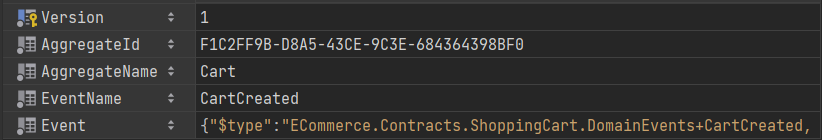
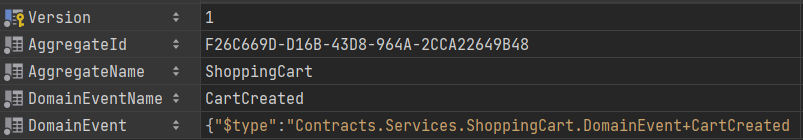
Upgrading event store in on README.md

diff --git a/README.md b/README.md
@@ -861,24 +861,25 @@ docker run --network=ecommerce --name k6 --rm -i grafana/k6 run - <test.js
 ### Store event
 
 ```sql
-CREATE TABLE [ShoppingCartStoreEvents] (
-    [Version] int NOT NULL IDENTITY,
-    [AggregateId] uniqueidentifier NOT NULL,
-    [AggregateName] varchar(30) NOT NULL,
-    [EventName] varchar(50) NOT NULL,
-    [Event] nvarchar(max) NOT NULL,
-    CONSTRAINT [PK_ShoppingCartStoreEvents] PRIMARY KEY ([Version])
-);
+CREATE TABLE [Events] (
+  [Version] bigint NOT NULL IDENTITY,
+  [AggregateId] uniqueidentifier NOT NULL,
+  [AggregateName] varchar(30) NOT NULL,
+  [DomainEventName] varchar(50) NOT NULL,
+  [DomainEvent] nvarchar(max) NOT NULL,
+  CONSTRAINT [PK_Events] PRIMARY KEY ([Version])
+  );
 ```
 
 ![](./.assets/img/store-event.png)
 
 ```json
 {
-  "$type": "ECommerce.Contracts.ShoppingCart.DomainEvents+CartCreated, ECommerce",
-  "CartId": "f1c2ff9b-d8a5-43ce-9c3e-684364398bf0",
+  "$type": "Contracts.Services.ShoppingCart.DomainEvent+CartCreated, Contracts",
+  "CartId": "f26c669d-d16b-43d8-964a-2cca22649b48",
   "CustomerId": "3fa85f64-5717-4562-b3fc-2c963f66afa6",
-  "Timestamp": "2022-02-23T15:49:22.2555835-03:00",
+  "Status": "Confirmed",
+  "Timestamp": "2022-06-04T14:00:54.2529087-03:00",
   "CorrelationId": "3fa85f64-5717-4562-b3fc-2c963f66afa6"
 }
 ```
@@ -886,13 +887,13 @@ CREATE TABLE [ShoppingCartStoreEvents] (
 ### Snapshot
 
 ```sql
-CREATE TABLE [ShoppingCartSnapshots] (
-    [AggregateVersion] int NOT NULL,
-    [AggregateId] uniqueidentifier NOT NULL,
-    [AggregateName] varchar(30) NOT NULL,
-    [AggregateState] nvarchar(max) NOT NULL,
-    CONSTRAINT [PK_ShoppingCartSnapshots] PRIMARY KEY ([AggregateVersion], [AggregateId])
-);
+CREATE TABLE [Snapshots] (
+  [AggregateVersion] bigint NOT NULL,
+  [AggregateId] uniqueidentifier NOT NULL,
+  [AggregateName] varchar(30) NOT NULL,
+  [AggregateState] nvarchar(max) NOT NULL,
+  CONSTRAINT [PK_Snapshots] PRIMARY KEY ([AggregateVersion], [AggregateId])
+  );
 ```
 
 ![](./.assets/img/store-snapshot.png)
@@ -900,13 +901,18 @@ CREATE TABLE [ShoppingCartSnapshots] (
 ```json
 {
   "CustomerId": "3fa85f64-5717-4562-b3fc-2c963f66afa6",
-  "Status": 2,
-  "ShippingAddress": null,
+  "Status": {
+    "Name": "Confirmed",
+    "Value": 2
+  },
   "BillingAddress": null,
+  "ShippingAddress": null,
   "Total": 0.0,
+  "TotalPayment": 0.0,
+  "AmountDue": 0.0,
   "Items": [],
   "PaymentMethods": [],
-  "Id": "b7bc74a0-c5ad-4510-baaa-8b5cbfc1cea3",
+  "Id": "de2ec981-24c1-4c27-abbb-dd50d99a1e16",
   "IsDeleted": false
 }
 ```
